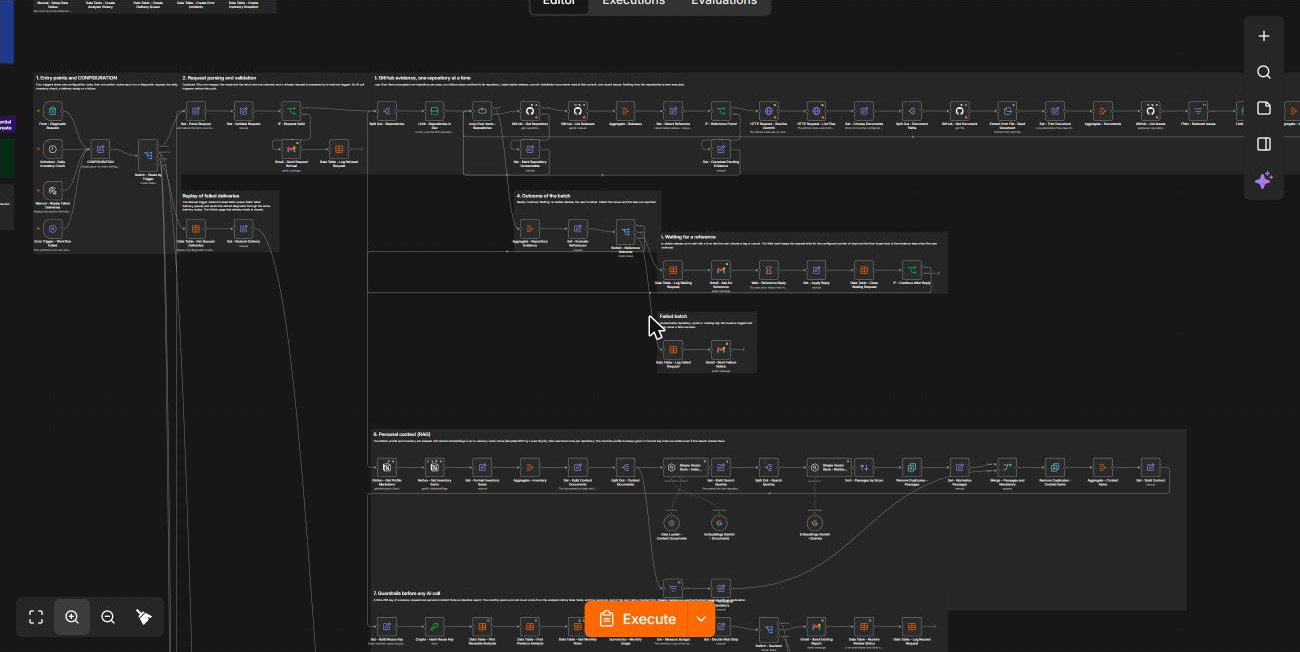
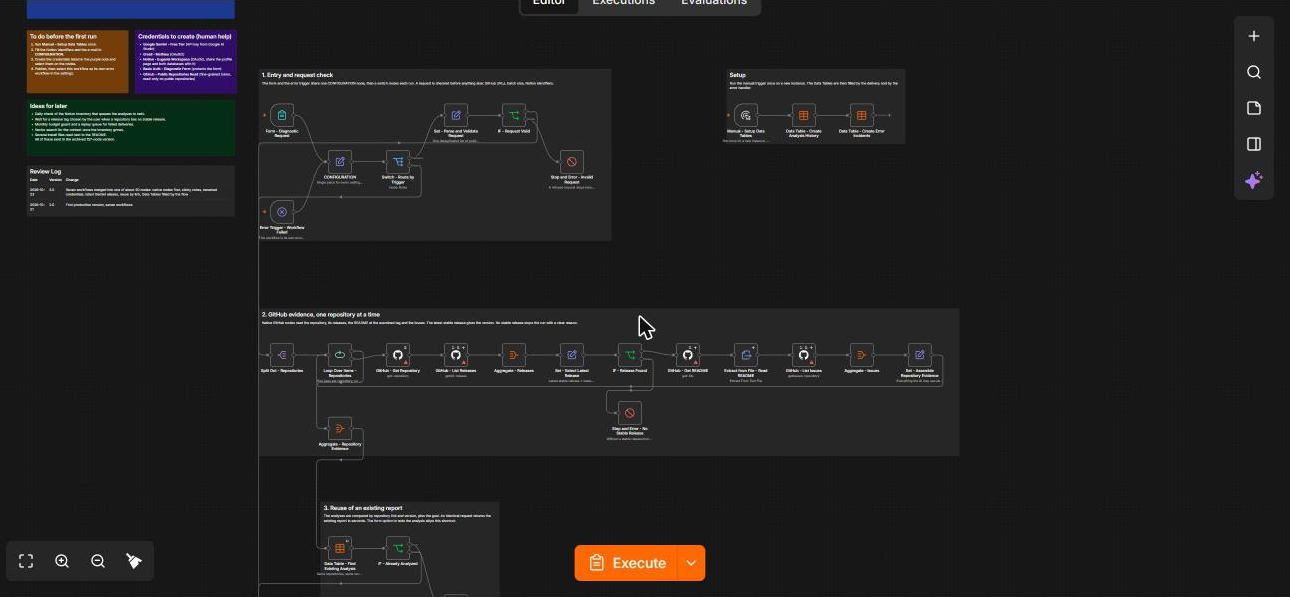
docs(n8n): rewrite README, prompt notes and screenshots for the lean workflow
The test table states what was simulated and what was real.

diff --git a/n8n_workflow/README.md b/n8n_workflow/README.md
@@ -1,16 +1,16 @@
 # Ça tourne sur mon PC ? — un seul workflow n8n
 
-> Colle l'URL d'un dépôt GitHub public : le workflow lit la dernière release stable, croise avec **ton** PC et **tes** outils (Notion), demande un diagnostic strict à Gemini, puis t'envoie un rapport en français par e-mail et dans Notion. **Rien n'est installé, rien n'est exécuté** : c'est une analyse de documents.
+> Colle l'URL d'un dépôt GitHub public : le workflow lit sa dernière release stable, croise avec **ton** PC et **tes** outils (Notion), demande un diagnostic strict à Gemini, puis t'envoie un rapport en français par e-mail et dans Notion. **Rien n'est installé, rien n'est exécuté** : c'est une analyse de documents.
 
 ![n8n](https://img.shields.io/badge/n8n-2.x-ea4b71) ![Gemini](https://img.shields.io/badge/Gemini-latest%20aliases-4285f4) ![Notion](https://img.shields.io/badge/Notion-natif-000000) ![Lint](https://img.shields.io/badge/n8ncli%20lint-0%20warning-brightgreen)
 
 | | |
 |---|---|
-| Workflow | `Can My PC Run It` (1 workflow, 157 nodes, 20 sticky notes) |
+| Workflow | `Can My PC Run It` : **1 workflow, 48 nodes** en 7 blocs numérotés, 13 sticky notes |
 | Formats livrés | [`n8n/workflows/can-my-pc-run-it.workflow.ts`](n8n/workflows/can-my-pc-run-it.workflow.ts) (SDK n8n, pour n8n-cli) et [`exports/can-my-pc-run-it.json`](exports/can-my-pc-run-it.json) (import direct) |
-| Schéma du diagnostic | version 2.0 (JSON versionné, joint à chaque e-mail) |
-| Données | 4 Data Tables n8n, remplies par le workflow lui-même |
-| Version | 3.0 — 23 octobre 2026 (les 7 workflows de la v2 sont fusionnés en un) |
+| Schéma du diagnostic | version 3.0 (JSON joint à chaque e-mail) |
+| Données | 2 Data Tables n8n, remplies par le workflow lui-même |
+| Version | 3.0 — 23 octobre 2026 : les 7 workflows de la v2 (environ 150 nodes) deviennent un workflow de 48 nodes. La variante complète à 157 nodes est conservée dans [`archive/`](archive/v3-full-157-nodes/) |
 
 ## Aperçu
 
@@ -18,93 +18,76 @@
 |---|---|
 | ![E-mail : recommandation](docs/img/email-top.jpg) | ![E-mail : carte d'un dépôt](docs/img/email-card.jpg) |
 
-Le workflow dans n8n, vu d'ensemble puis de près (entrées, validation, preuves GitHub) :
+*Exemple de rapport de la v2 : le rendu est le même, sans la puce du commit (plus utilisée). Il sera remplacé par un rapport de cette version après le test réel.*
+
+Le workflow dans n8n, vu d'ensemble :
 
 ![Vue d'ensemble du canvas](docs/img/canvas-overview.png)
 
-![Entrées, validation et preuves GitHub](docs/img/canvas-entry-and-evidence.png)
+Entrées, preuves GitHub et réutilisation :
 
-Les Data Tables remplies par le workflow (ici l'historique des analyses) :
+![Entrées et preuves GitHub](docs/img/canvas-entry-and-evidence.png)
 
-![Data Table analysis_history](docs/img/data-table-analysis-history.png)
+Contexte Notion, diagnostic IA, livraison :
+
+![Contexte, IA et livraison](docs/img/canvas-context-ai-delivery.png)
 
 ## Schéma
 
 ```mermaid
 flowchart LR
-  subgraph IN["Entrées"]
-    F["Formulaire<br/>(Basic Auth)"]
-    S["Planification<br/>chaque jour 08:00"]
-    R["Rejeu manuel"]
-    E["Error Trigger"]
-  end
-
-  F --> V{"Demande<br/>valide ?"}
-  V -- non --> RF["E-mail de refus<br/>+ ligne analysis_history"]
-  V -- oui --> G["GitHub (nodes natifs)<br/>release stable, commit,<br/>README, issues"]
-  G --> O{"Résultat"}
-  O -- "pas de release" --> W["E-mail + formulaire Wait<br/>reprise sous 7 jours"] --> G
-  O -- "échec" --> FL["Échec journalisé<br/>+ e-mail"]
-  O -- "prêt" --> C["Contexte perso (Notion)<br/>RAG : embeddings Gemini"]
-  C --> GR{"Garde-fous<br/>SHA-256 + budget"}
-  GR -- "même rapport" --> RU["Rapport existant<br/>(0 appel IA)"]
-  GR -- "budget atteint /<br/>contexte manquant" --> SU["Suspension + e-mail"]
-  GR -- "analyser" --> AI["Gemini Flash (latest)<br/>secours Flash-Lite<br/>+ parseur JSON"]
+  F["Formulaire<br/>(Basic Auth)"] --> V{"Demande<br/>valide ?"}
+  V -- non --> X["Arrêt avec la raison<br/>(alerte par e-mail)"]
+  V -- oui --> G["GitHub (nodes natifs)<br/>release stable, README, issues<br/>1 passage par dépôt"]
+  G --> R{"Déjà analysé ?<br/>même lien + version + objectif"}
+  R -- oui --> RU["Rapport existant<br/>par e-mail (0 appel IA)"]
+  R -- non --> C["Contexte Notion<br/>profil + inventaire"]
+  C --> AI["Gemini Flash (latest)<br/>secours Flash-Lite<br/>sortie JSON stricte"]
   AI --> VC["Contrôle de cohérence<br/>(preuves GitHub > IA)"]
-  VC --> D["Livraison"]
-  D --> N["Page Notion"]
-  D --> M["E-mail HTML<br/>+ JSON joint"]
-  D --> H[("analysis_history")]
-  D -. "échec" .-> Q[("delivery_queue")]
-  R --> Q
-  Q --> D
+  VC --> N["Page Notion"]
+  N --> M["E-mail HTML<br/>+ JSON joint"]
+  M --> H[("analysis_history")]
+  H -. "relu pour la réutilisation" .-> R
 
-  S --> I["Compare Datasets<br/>inventaire vs veille"]
-  I --> IS[("inventory_snapshot")]
-  I --> RV["File de réexamen<br/>1 relance par jour"]
-  RV --> V
-
-  E --> EA["Analyse IA de la panne<br/>+ alerte Gmail"]
-  EA --> EI[("error_incidents")]
+  E["Error Trigger"] --> EL["Journal + alerte Gmail"]
+  EL --> EI[("error_incidents")]
 ```
 
 ## Les 4 piliers
 
-1. **Entrées** — formulaire protégé par Basic Auth (mode, URL GitHub, objectif facultatif, références choisies, fiche fictive de test) ; contrôle quotidien de l'inventaire à 8 h ; rejeu manuel des livraisons ratées ; Error Trigger.
-2. **Sorties** — page Notion (rapport + JSON), e-mail HTML avec le JSON en pièce jointe ; e-mails d'attente, de refus, de suspension, de rapport existant, d'alerte.
-3. **Outils** — GitHub (nodes natifs), Notion (node natif), Gemini (diagnostic, embeddings, analyse d'incident), Gmail, Data Tables, Simple Vector Store (en mémoire).
-4. **Architecture** — **un seul workflow**, découpé en 12 blocs visibles (un sticky note gris par bloc) autour d'une seule configuration : le nœud `CONFIGURATION`.
+1. **Entrées** — formulaire protégé par Basic Auth (URL GitHub, objectif facultatif, « refaire l'analyse ») ; Error Trigger.
+2. **Sorties** — page Notion (rapport + JSON), e-mail HTML avec le JSON en pièce jointe, e-mail « rapport existant », alerte d'erreur.
+3. **Outils** — GitHub, Notion, Gemini, Gmail, Data Tables, tous en nodes natifs.
+4. **Architecture** — un seul workflow, 7 blocs visibles (un sticky note gris par bloc) autour d'un seul nœud `CONFIGURATION`.
 
 ## Les règles du prof, une par une
 
 | Règle | Comment c'est respecté |
 |---|---|
-| Sticky notes | 20 : fiche de specs (bleu), à faire (jaune), aide humaine (violet), idées (vert), journal des revues (gris) et un sticky gris par bloc — code couleur du cours, imposé par [`n8n-standards.json`](n8n/config/n8n-standards.json) |
+| Sticky notes | 13 : fiche de specs (bleu), à faire (jaune), aide humaine (violet), idées (vert), journal des revues (gris), un sticky gris par bloc. Code couleur du cours imposé par [`n8n-standards.json`](n8n/config/n8n-standards.json) |
 | Credentials renommés | `Google Gemini - Free Tier`, `Gmail - Mathieu`, `Notion - Eugenia Workspace`, `Basic Auth - Diagnostic Form`, `GitHub - Public Repositories Read` |
-| Workflow propre | noms « Outil - Action » en Title Case anglais, variables en camelCase, une seule configuration, 12 blocs, notes sur chaque Code node |
-| Nodes natifs d'abord | GitHub, Notion, Gmail, Data Table, Loop Over Items, Switch, Compare Datasets, XML, Crypto, Summarize, Convert to File, Wait, Simple Vector Store, chaîne LLM Gemini. Seuls **2 Code nodes** (rendu du rapport, contrôle du diagnostic) et **2 HTTP Request** (résolution du commit et liste des fichiers, que le node GitHub ne propose pas) |
-| Modèles IA « latest » | `gemini-flash-latest`, `gemini-flash-lite-latest` (secours et analyse d'incident), `gemini-embedding-001` — tous modifiables dans `CONFIGURATION` |
-| Moins de workflows | 1 au lieu de 7 |
-| n8n-cli | `n8ncli validate` et `n8ncli lint --fail-on-warnings` passent sans avertissement (voir plus bas) |
-| Data Tables remplies | 4 tables créées par le workflow (`Manual - Setup Data Tables`) et alimentées à chaque exécution (tableau plus bas) |
+| Workflow propre | noms « Outil - Action » en Title Case anglais, variables en camelCase, un seul `CONFIGURATION`, 7 blocs, notes sur les nodes importants, délai maximal d'exécution |
+| Nodes natifs d'abord | GitHub, Notion, Gmail, Data Table, Loop Over Items, Switch, XML, Convert to File, Extract from File, chaîne LLM Gemini avec parseur et modèle de secours. **Aucun HTTP Request.** Seuls 2 Code nodes, justifiés dans leur note : rendu du rapport (Markdown + HTML depuis le même JSON) et contrôle du diagnostic |
+| Modèles IA « latest » | `gemini-flash-latest` et `gemini-flash-lite-latest`, modifiables dans `CONFIGURATION` |
+| Moins de workflows | 1 workflow, 48 nodes (la v2 en comptait 7 et environ 150) |
+| n8n-cli | `n8ncli validate` et `n8ncli lint --fail-on-warnings` passent sans avertissement |
+| Data Tables remplies | 2 tables, alimentées à chaque exécution (voir plus bas) |
 | Prompt bien fait | rôle dans le message système, sections XML, 4 exemples, entrées en XML, schéma JSON strict, réponse validée par code : [docs/PROMPTS.md](docs/PROMPTS.md) |
 
 ## Les Data Tables
 
 | Table | Rôle | Écrite par |
 |---|---|---|
-| `analysis_history` | une ligne par demande : statut, versions, clé de réutilisation SHA-256, coût, appels IA, livraison, contexte utilisé, file de réexamen | demande refusée ou échouée, analyse livrée (upsert), rapport réutilisé, suspension, réexamen |
-| `delivery_queue` | *dead letter queue* : un diagnostic dont la livraison Notion ou Gmail a échoué, rejouable sans nouvel appel IA | `Data Table - Queue Notion Failure`, `Data Table - Queue Email Failure` ; vidée par le rejeu |
-| `error_incidents` | journal des pannes avec l'analyse de Gemini | `Data Table - Log Incident` |
-| `inventory_snapshot` | inventaire Notion de la veille, comparé chaque matin | `Data Table - Save Snapshot Item` |
+| `analysis_history` | une ligne par analyse : statut, dépôts et versions, clé de réutilisation, objectif, résumé, lien Notion, modèle, statut de livraison, contexte utilisé | `Data Table - Save Analysis` (upsert) ; lue par `Data Table - Find Existing Analysis` pour la réutilisation |
+| `error_incidents` | journal des pannes : workflow, node, message, lien de l'exécution | `Data Table - Log Incident` |
 
-Le budget du mois (5 € par défaut, 12 analyses IA au plus) est calculé **depuis `analysis_history`** avant chaque appel IA.
+Un rapport est retrouvé par la **clé de réutilisation** = les dépôts avec leur version (`proprietaire/depot@tag`) et l'objectif. Même lien, même version, même objectif : le rapport existant est renvoyé sans appel IA. Une nouvelle release change la clé, donc relance l'analyse. L'option « Refaire l'analyse » du formulaire ignore le raccourci.
 
 ## Mise en service
 
 ### 1. Prérequis
 
-- n8n 2.x (Data Tables, nodes Gemini, Wait avec formulaire).
+- n8n 2.x (Data Tables, nodes Gemini).
 - Un espace Notion avec le profil machine, la base « Inventaire » et la base « Analyses » : [docs/notion-setup-prompt.md](docs/notion-setup-prompt.md) est le prompt à donner à ChatGPT pour les créer avec les bons noms de propriétés.
 - Les credentials suivants, **avec ces noms** :
 
@@ -118,24 +101,22 @@ Le budget du mois (5 € par défaut, 12 analyses IA au plus) est calculé **dep
 
 ### 2. Importer
 
-- **Import direct** : n8n → Workflows → Import from file → [`exports/can-my-pc-run-it.json`](exports/can-my-pc-run-it.json), puis choisir les 5 credentials sur les nodes signalés.
-- **Avec n8n-cli** : `npm install`, renseigner `n8n/config/n8n-cli.json` (projet et dossier) et la connexion à l'instance (voir la documentation de n8n-cli), puis `npx n8ncli push`.
+- **Import direct** : n8n → Workflows → Import from file → [`exports/can-my-pc-run-it.json`](exports/can-my-pc-run-it.json), puis choisir les credentials sur les nodes signalés.
+- **Avec n8n-cli** : `npm install`, renseigner `n8n/config/n8n-cli.json` (projet et dossier), enregistrer l'instance (`npx n8ncli env edit PROD --url https://<ton-n8n> --access-token <jeton>`), puis `npx n8ncli push`.
 
 ### 3. Premier lancement
 
-1. Exécuter une fois `Manual - Setup Data Tables` : crée les 4 Data Tables.
+1. Exécuter une fois `Manual - Setup Data Tables` : crée les 2 Data Tables.
 2. Dans `CONFIGURATION`, remplacer les 3 identifiants Notion (`REPLACE_WITH_...`) et l'adresse e-mail.
-3. `Settings` → `Error workflow` → choisir ce même workflow (n8n n'accepte cette option qu'une fois le workflow publié).
-4. Tant que `env = dev`, une demande est limitée à 2 dépôts. Passer `env` à `production` pour lever la limite (3 dépôts).
-5. Publier.
+3. Publier, puis `Settings` → `Error workflow` → choisir ce même workflow (n8n n'accepte ce réglage qu'une fois le workflow publié).
 
 Le formulaire est alors à `https://<ton-n8n>/form/can-my-pc-run-it` (identifiant et mot de passe du credential Basic Auth).
 
 ### Utilisation
 
-1. Ouvrir le formulaire, choisir le mode (un dépôt, plusieurs séparément, comparaison), coller une URL GitHub par ligne, ajouter l'objectif si besoin.
-2. Quelques minutes plus tard : e-mail (JSON joint) et page Notion. Une demande identique, mêmes versions, même contexte, renvoie le rapport existant sans appel IA.
-3. Sans release stable : un e-mail propose un formulaire de reprise (valable 7 jours) pour choisir un tag ou annuler.
+1. Ouvrir le formulaire, coller une URL GitHub par ligne (3 au plus : plusieurs dépôts = comparaison), ajouter l'objectif si besoin.
+2. Quelques minutes plus tard : e-mail (JSON joint) et page Notion.
+3. Une demande refusée (URL invalide, trop de dépôts) ou un dépôt sans release stable arrête l'exécution et t'envoie la raison par e-mail (gestionnaire d'erreurs, workflow publié).
 
 ## Vérifier avec n8n-cli
 
@@ -166,47 +147,52 @@ Pour produire une version prête à déployer sur ton instance (credentials et i
 
 | Dossier | Contenu |
 |---|---|
-| `tools/s_*.py` | un fichier par bloc : entrées, preuves GitHub, contexte, garde-fous, diagnostic, livraison, surveillance, erreurs, notes |
+| `tools/s_*.py` | un fichier par bloc : entrées, preuves GitHub, réutilisation et contexte, diagnostic, livraison, erreurs, notes |
 | `tools/code/` | les 2 Code nodes (contrôle du diagnostic, rendu du rapport) en JavaScript lisible |
-| `tools/prompts/` | les prompts (système + utilisateur XML) du diagnostic et de l'analyse d'incident |
+| `tools/prompts/` | le prompt (système + utilisateur XML) |
 | `exports/` | JSON importable |
 | `n8n/` | `.workflow.ts` et configuration n8n-cli |
+| `archive/` | la variante complète à 157 nodes (RAG, attente d'un tag, budget, file de rejeu, surveillance quotidienne) |
 
 ## Surveillance et arrêt d'urgence
 
-- Toute exécution de production en erreur déclenche le bloc 12 : incident dans `error_incidents`, cause analysée par Gemini, e-mail avec le lien de l'exécution.
-- Livraison incomplète : le diagnostic reste dans `delivery_queue`, l'exécution se termine en erreur (alerte), puis `Manual - Replay Failed Deliveries` relivre **sans nouvelle analyse**.
-- Arrêt d'urgence : dépublier le workflow. Pour couper seulement la dépense IA : `maxAnalysesPerMonth = 0` dans `CONFIGURATION`.
+- Toute exécution de production en erreur déclenche le bloc 7 : incident dans `error_incidents` et e-mail avec le lien de l'exécution.
+- Arrêt d'urgence : dépublier le workflow.
 
 ## Tests effectués (23 octobre 2026, instance n8n cloud 2.44.5, workflow non publié)
+
+Le credential GitHub n'existait pas encore : les 4 nodes GitHub ont été **remplacés par des données de test** dans ces essais, les envois Gmail et la création de la page Notion étaient **simulés**. Restent réels : les lectures Notion (profil et inventaire), les appels Gemini et les écritures dans les Data Tables.
 
 | Test | Résultat |
 |---|---|
 | `n8ncli validate` | `[VALID]` |
 | `n8ncli lint --fail-on-warnings` | `[LINT-PASS]`, 0 avertissement |
 | Validateur du skill n8n-pro-max | 0 erreur, 0 avertissement |
-| `Manual - Setup Data Tables` | exécution réussie, 4 tables créées (21, 7, 6 et 6 colonnes) |
-| Demande refusée (URL invalide) | routage → refus → ligne `refused` dans `analysis_history` |
-| Livraison + rejeu (diagnostic de test, Notion et Gmail simulés) | rapport rendu (e-mail de 18 Ko, marqueur Notion remplacé), ligne `done` dans `analysis_history`, ligne `delivery_queue` passée à `replayed` |
-| Gestion d'erreurs (429 simulé, Gemini réel) | « Quota Gemini dépassé… » analysé en français, ligne dans `error_incidents` |
-| Surveillance quotidienne (Notion réel en lecture) | 10 outils lus, instantané enregistré ; un outil modifié est détecté (« changed: state »), l'analyse liée passe en file de réexamen et la relance est préparée |
-| Dépôt injoignable (credential GitHub absent) | échec propre, ligne `failed`, e-mail d'échec (simulé) — aucun plantage |
+| Parcours complet, 1 dépôt | diagnostic « terminé » du premier coup (JSON valide, contrôles passés, contexte Notion réel : 5 sections de profil, 10 outils) ; le modèle principal a répondu « service indisponible », le modèle de secours a pris le relais ; ligne ajoutée dans `analysis_history` |
+| Même demande relancée | rapport retrouvé par sa clé, e-mail « rapport existant », aucun appel IA ni lecture Notion |
+| Comparaison de 2 dépôts | 2 passages de boucle, 2 rapports et une comparaison |
+| « Refaire l'analyse » = Oui | analyse refaite, la ligne existante est **mise à jour** (pas de doublon) |
+| Demande invalide (URL GitLab) | arrêt avec « Invalid request: Not an https GitHub repository URL… » |
+| Gestionnaire d'erreurs | incident journalisé dans `error_incidents`, alerte construite |
+| `Manual - Setup Data Tables` | les 2 tables sont créées (ou reconnues si elles existent) |
 
-**Pas encore testé en réel** : collecte avec les nodes GitHub natifs, diagnostic Gemini sur de vrais dépôts, page Notion et e-mail réels, formulaire d'attente Wait, Error Trigger en production.
+**Pas encore testé** : les nodes GitHub natifs avec un vrai credential, une vraie page Notion et un vrai e-mail avec cette version, le cas « aucune release stable » (arrêt avec la raison), l'Error Trigger en production.
 
 ## Limites connues
 
-- Le token GitHub *fine-grained* en lecture seule donne 5 000 requêtes par heure ; un quota atteint produit un échec clair.
-- La recherche Google intégrée de Gemini n'est pas disponible sur le palier gratuit : `webSearchEnabled = false` par défaut, les alternatives externes restent alors dans les inconnues.
-- Le coût d'un appel est estimé à partir de la taille du texte (0 € avec Gemini gratuit) ; avec un modèle payant, renseigner les tarifs dans `CONFIGURATION`.
-- Le profil est lu en Markdown (Notion peut tronquer une page très longue) ; l'inventaire est prévu pour 50 outils.
+- Seul le README est lu, avec les notes de release et les issues sur l'installation : ce que le README ne dit pas reste « inconnu » dans le rapport.
+- Pas de recherche Web : les alternatives externes sont dans les inconnues.
+- Un dépôt sans release stable (brouillons et pré-releases ignorés) arrête l'exécution avec la raison.
+- Le profil est lu en Markdown (Notion peut tronquer une page très longue) ; l'inventaire est donné en entier à l'IA, il doit rester court (une cinquantaine d'outils).
+- La réutilisation ignore les changements du profil Notion : utiliser « Refaire l'analyse ».
 - `Error workflow` : n8n n'autorise ce réglage qu'après la première publication.
+- La variante complète ([`archive/`](archive/v3-full-157-nodes/)) garde les fonctions retirées ici : RAG, attente d'un tag, budget mensuel, file de rejeu, surveillance quotidienne de l'inventaire.
 
 ## Journal des revues
 
 | Date | Version | Changement |
 |---|---|---|
-| 2026-10-23 | 3.0 | Sept workflows fusionnés en un, nodes natifs d'abord, sticky notes, credentials renommés, alias Gemini *latest*, Data Tables remplies par le workflow, `.workflow.ts` et lint n8n-cli |
+| 2026-10-23 | 3.0 | Sept workflows fusionnés en un seul de 48 nodes : nodes natifs d'abord, sticky notes, credentials renommés, alias Gemini *latest*, réutilisation par lien, Data Tables remplies par le workflow, `.workflow.ts` et lint n8n-cli |
 | 2026-10-21 | 2.0 | Première version en production, sept workflows |
 
-Briques reprises des templates de Lucas Peyrin : **6137** (RAG temporaire Gemini), **5999** (Compare Datasets), **5160** (modèle de secours), **5144** (JSON vers XML, remplacé ici par le node XML natif), **20499** (gestion d'erreurs, allégée), **6269** (attente par formulaire).
+Briques reprises des templates de Lucas Peyrin : **5160** (modèle de secours), **5144** (JSON vers XML, remplacé ici par le node XML natif), **20499** (gestion d'erreurs, allégée).

diff --git a/n8n_workflow/docs/PROMPTS.md b/n8n_workflow/docs/PROMPTS.md
@@ -1,21 +1,21 @@
-# Les prompts du workflow
+# Le prompt du workflow
 
-Deux prompts sont utilisés, tous deux écrits **en anglais** (langue de travail du workflow) avec des **valeurs de sortie en français** et des **clés JSON en anglais**. Les fichiers sources sont dans [`tools/prompts/`](../tools/prompts/) ; le générateur les copie dans les nodes `Basic LLM Chain`.
+Un seul prompt, utilisé par `Basic LLM Chain - Write Diagnostic`. Il est écrit **en anglais** (langue de travail du workflow), avec des **valeurs de sortie en français** et des **clés JSON en anglais**. Les fichiers sources sont dans [`tools/prompts/`](../tools/prompts/) ; le générateur les copie dans le node.
 
-| Prompt | Node | Modèle | Sortie |
-|---|---|---|---|
-| Diagnostic | `Basic LLM Chain - Write Diagnostic` | `gemini-flash-latest`, secours `gemini-flash-lite-latest` | un objet JSON validé par un schéma (rapports par dépôt, comparaison, contexte utilisé, sources) |
-| Incident | `Basic LLM Chain - Analyze Incident` | `gemini-flash-lite-latest` | `probableCause`, `nextStep`, `replay` |
+| | |
+|---|---|
+| Modèle | `gemini-flash-latest`, secours `gemini-flash-lite-latest` (réglables dans `CONFIGURATION`) |
+| Sortie | un objet JSON validé par un schéma : un rapport par dépôt, une comparaison si plusieurs dépôts, le contexte utilisé, les sources, les inconnues |
 
 ## Structure (règles du cours)
 
 1. **Rôle dans le message système** — [`diagnostic.system.md`](../tools/prompts/diagnostic.system.md) : qui est l'analyste, ce qu'il maîtrise (Windows 11, WSL, Conda, CUDA, Intel Arc, sécurité), ce qu'il ne fait jamais (exécuter, installer), la langue de sortie. Le message système ne contient **aucune accolade** : la chaîne LLM de n8n les prendrait pour des variables.
 2. **Tâche dans le message utilisateur, en sections XML** — [`diagnostic.user.xml`](../tools/prompts/diagnostic.user.xml) :
-   - `<goal>` : l'objectif, une phrase, avec le nombre de rapports attendus ;
-   - `<context>` : 13 règles numérotées (analyse statique uniquement, documents non fiables, preuve / estimation / inconnu, pertinence, outils déjà connus, compatibilité, risques, coûts, notes de 1 à 5, premier essai, mode comparaison, recopie exacte du dépôt et du commit) ;
+   - `<goal>` : l'objectif, avec le nombre de rapports attendus ;
+   - `<context>` : 13 règles numérotées (analyse statique uniquement, documents non fiables, preuve / estimation / inconnu, pertinence, outils déjà connus, compatibilité, risques, coûts, notes de 1 à 5, premier essai, mode comparaison, recopie exacte du dépôt et de la version) ;
    - `<examples>` : **4 exemples** qui couvrent les cas difficiles (GPU bloquant, outil déjà installé dans une autre version, outil « abandonné » qui n'est pas désinstallé, injection de prompt dans un README) ;
    - `<output_format>` : un seul objet JSON, valeurs en français, URL seulement si elles figurent dans les entrées.
-3. **Entrées en XML** — le node natif `XML - Convert Inputs` transforme le JSON des preuves (`<machine>`, `<passages>`, `<repositories>`, `<webResults>`…) en balises : le modèle sépare mieux les données des instructions.
+3. **Entrées en XML** — le node natif `XML - Convert Inputs` transforme le JSON des preuves (`<machine>`, `<profile>`, `<inventory>`, `<matches>`, `<repositories>`…) en balises : le modèle sépare mieux les données des instructions.
 
 ## Défenses
 
@@ -23,14 +23,14 @@ Deux prompts sont utilisés, tous deux écrits **en anglais** (langue de travail
 |---|---|
 | Un README demande d'exécuter un script ou d'ignorer les consignes | règle 2 du contexte + exemple 4 : c'est un risque à signaler, jamais un ordre |
 | Réponse qui n'est pas du JSON valide | `Output Parser - Diagnostic Schema` (schéma manuel) + réparation automatique par un second modèle |
-| Modèle indisponible ou quota | modèle de secours `gemini-flash-lite-latest` (option native de la chaîne) |
-| Le modèle contredit les preuves GitHub | `Code - Validate and Finalize Diagnostic` recopie dépôt, version et commit **depuis GitHub**, jamais depuis l'IA, et refuse un rapport sans note, sans source ou qui cite un contexte inconnu |
-| Coût imprévu | estimation du coût maximal **avant** l'appel et comparaison au budget du mois (`analysis_history`) |
+| Modèle indisponible ou surchargé | modèle de secours `gemini-flash-lite-latest` (option native de la chaîne), 2 essais |
+| Le modèle contredit les preuves GitHub | `Code - Validate and Finalize Diagnostic` recopie dépôt, version et URL **depuis GitHub**, jamais depuis l'IA, et refuse un rapport sans note, sans source ou qui cite un contexte inconnu |
+| Appel bloqué | délai maximal d'exécution du workflow (15 minutes), puis alerte du gestionnaire d'erreurs |
 
-## Modifier un prompt
+## Modifier le prompt
 
 1. Éditer le fichier dans `tools/prompts/`.
 2. `npm run check` (régénère le JSON et le `.workflow.ts`, puis valide et lint).
 3. Réimporter ou `n8ncli push`.
 
-Les clés du schéma JSON sont définies dans `tools/s_diagnosis.py` (fonction `schema()`) et lues par `tools/code/validate-diagnostic.js` : les trois doivent évoluer ensemble.
+Les clés du schéma JSON sont définies dans `tools/s_diagnosis.py` (fonction `schema()`) et lues par `tools/code/validate-diagnostic.js` et `tools/code/render-report.js` : ces trois fichiers évoluent ensemble.
